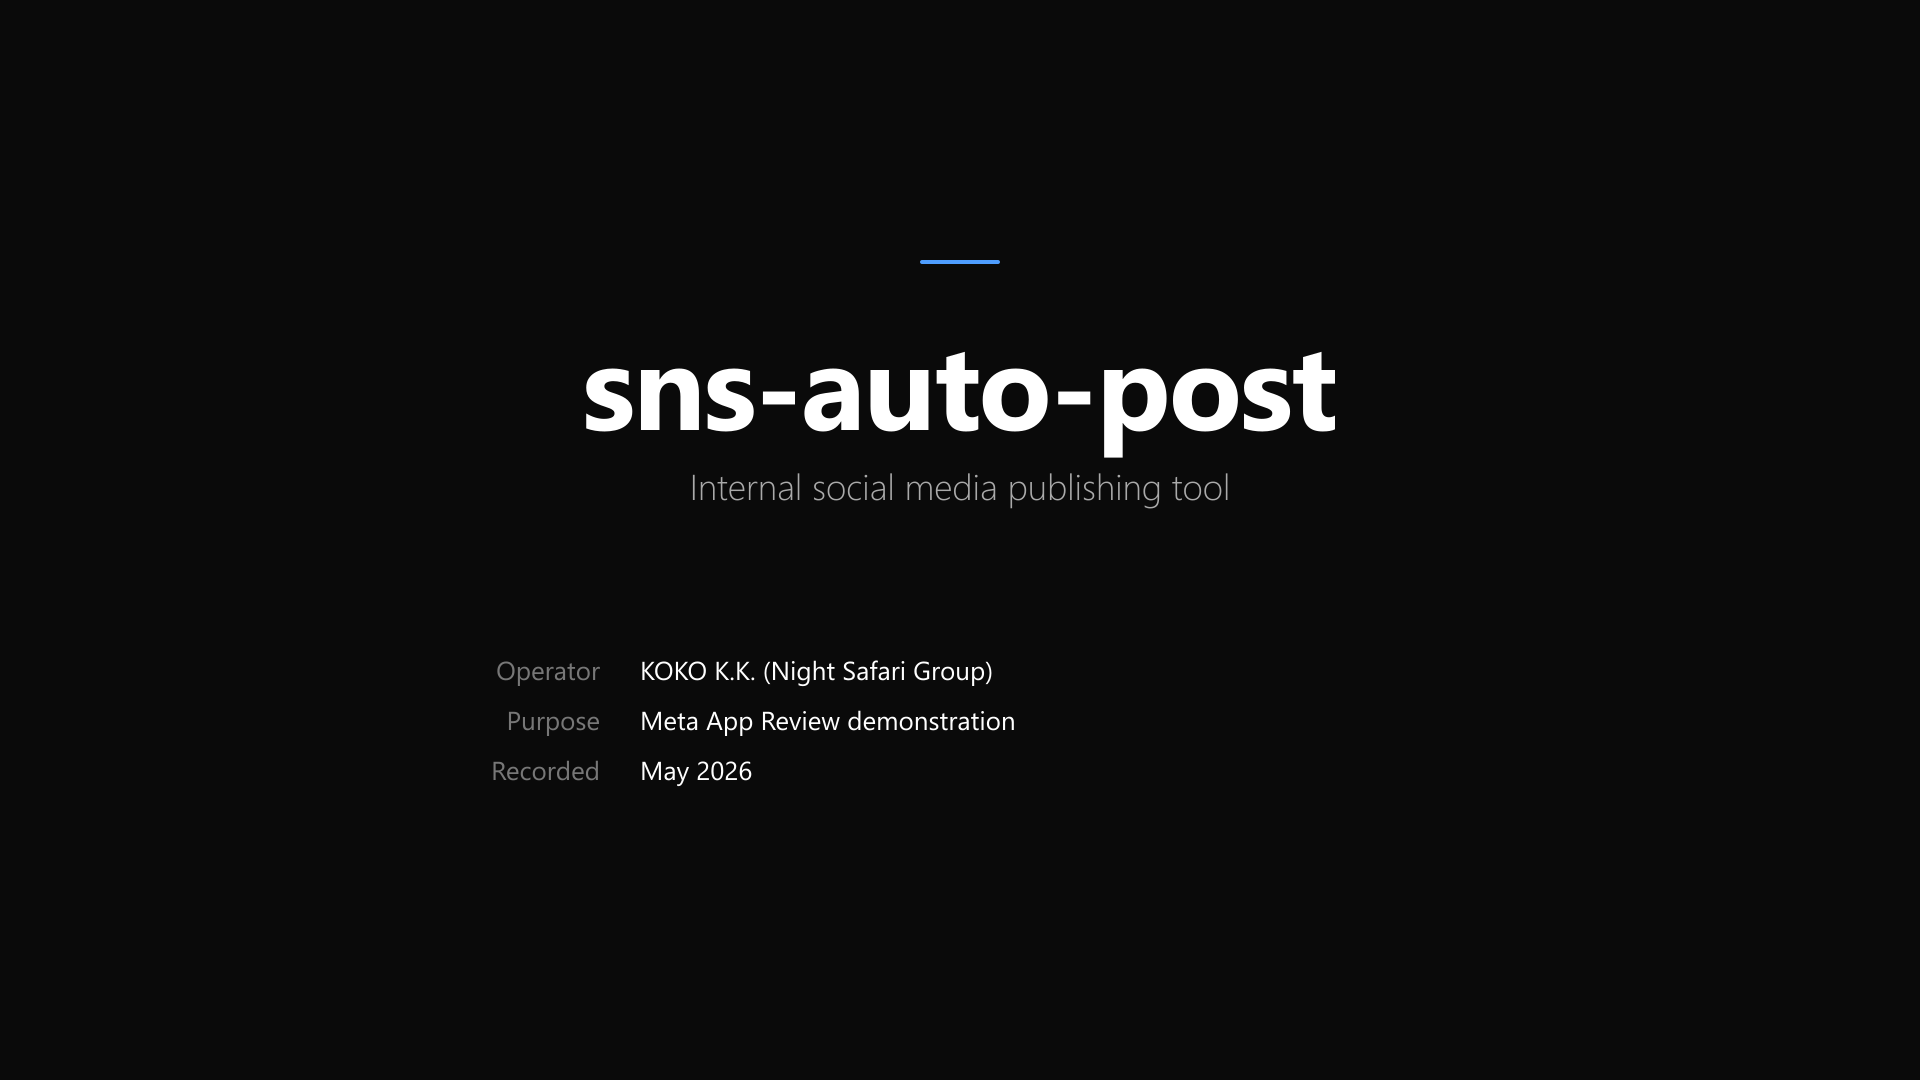
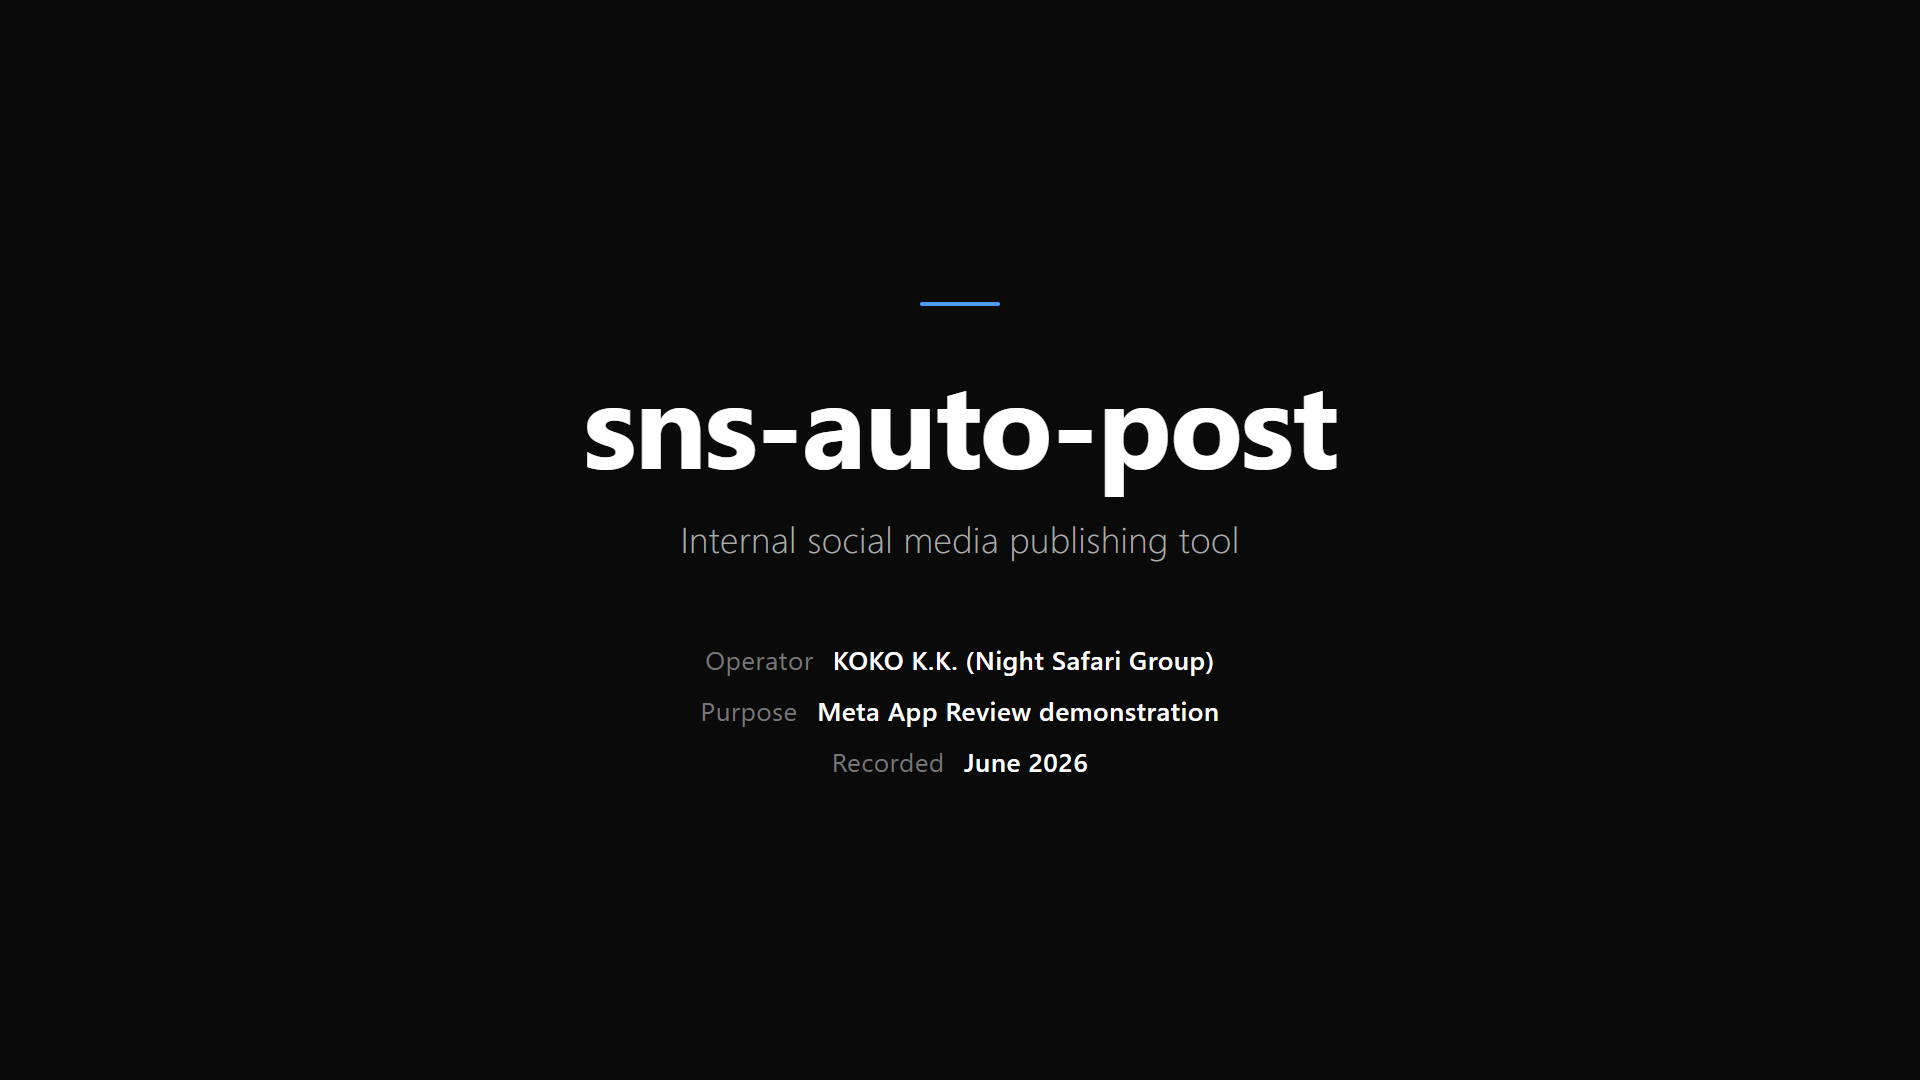
Update screencast date to June 2026
Re-rendered title card and updated both script versions from May to June 2026.

diff --git a/meta_review_assets/title_card.html b/meta_review_assets/title_card.html
@@ -79,7 +79,7 @@
       </div>
       <div class="meta-row">
         <span class="meta-label">Recorded</span>
-        <span class="meta-value">May 2026</span>
+        <span class="meta-value">June 2026</span>
       </div>
     </div>
   </div>

diff --git a/META_SCREENCAST_SCRIPT_JA.md b/META_SCREENCAST_SCRIPT_JA.md
@@ -17,7 +17,7 @@
 
 **📝英語キャプション（画面に表示する文）：**
 > sns-auto-post — Internal social media publishing tool for KOKO K.K. (Night Safari Group)
-> App Review demonstration · May 2026
+> App Review demonstration · June 2026
 
 （日本語の意味：KOKO株式会社の社内向けSNS投稿ツール。App Reviewのデモ動画）
 

diff --git a/META_SCREENCAST_SCRIPT.md b/META_SCREENCAST_SCRIPT.md
@@ -12,7 +12,7 @@ Audio: optional, but English **on-screen captions are required** for every scene
 
 **On-screen text (English caption):**
 > sns-auto-post — Internal social media publishing tool for KOKO K.K. (Night Safari Group)
-> App Review demonstration · May 2026
+> App Review demonstration · June 2026
 
 ---
 
